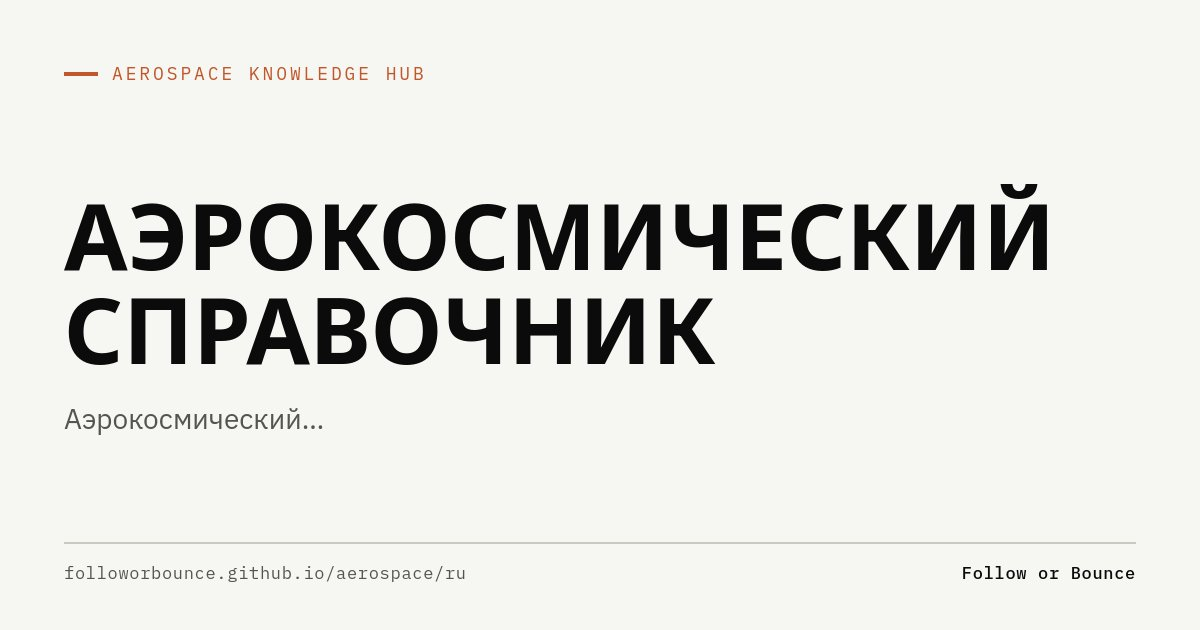
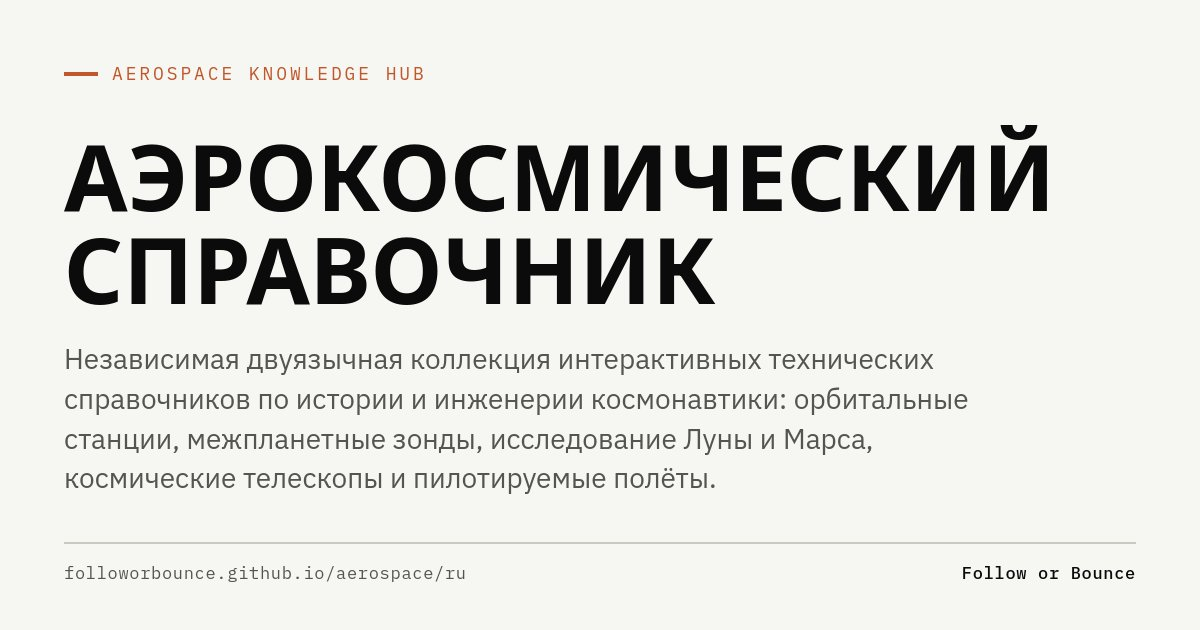
Russian index: a real description instead of the site name

Changed region(s): [[0.0308, 0.181, 0.8942, 0.7238], [0.0617, 0.754, 0.5858, 0.7841]]

diff --git a/ru/index.html b/ru/index.html
@@ -5,13 +5,13 @@
 <meta name="viewport" content="width=device-width, initial-scale=1.0">
 <meta name="yandex-verification" content="6aceeb02b2fcb918" />
 <title>Аэрокосмический справочник</title>
-<meta name="description" content="Аэрокосмический справочник">
+<meta name="description" content="Независимая двуязычная коллекция интерактивных технических справочников по истории и инженерии космонавтики: орбитальные станции, межпланетные зонды, исследование Луны и Марса, космические телескопы и пилотируемые полёты.">
 <link rel="canonical" href="https://followorbounce.github.io/aerospace/ru/">
 <meta name="theme-color" content="#f6f6f2">
 <link rel="icon" href="/aerospace/assets/favicon.svg" type="image/svg+xml">
 <meta property="og:type" content="website">
 <meta property="og:title" content="Аэрокосмический справочник">
-<meta property="og:description" content="Аэрокосмический справочник">
+<meta property="og:description" content="Независимая двуязычная коллекция интерактивных технических справочников по истории и инженерии космонавтики: орбитальные станции, межпланетные зонды, исследование Луны и Марса, космические телескопы и пилотируемые полёты.">
 <meta property="og:url" content="https://followorbounce.github.io/aerospace/ru/">
 <meta property="og:site_name" content="Aerospace Knowledge Hub">
 <meta property="og:locale" content="ru_RU">

diff --git a/_tools/ru_pages.py b/_tools/ru_pages.py
@@ -23,6 +23,8 @@ HERE = os.path.dirname(os.path.abspath(__file__))
 ROOT = os.path.dirname(HERE)
 SITE = 'https://followorbounce.github.io/aerospace/'
 VOID = {'area', 'base', 'br', 'col', 'embed', 'hr', 'img', 'input', 'link', 'meta', 'param', 'source', 'track', 'wbr'}
+INDEX_DESC_RU = ('Независимая двуязычная коллекция интерактивных технических справочников по истории и инженерии космонавтики: '
+                 'орбитальные станции, межпланетные зонды, исследование Луны и Марса, космические телескопы и пилотируемые полёты.')
 HL_START, HL_END = '<!-- hreflang -->', '<!-- /hreflang -->'
 
 
@@ -107,6 +109,8 @@ def russian(src, slug, site, label, slugs):
     lede = re.search(r'<(?:p|div)[^>]*class="[^"]*\blede\b[^"]*"[^>]*\bdata-ru="([^"]*)"', src) or \
         re.search(r'<p[^>]*\bdata-ru="([^"]{80,})"', src)
     desc = clip(plain(html.unescape(lede.group(1)))) if lede else t_ru
+    if not slug:                                   # the index has no hero lede: its English description, in Russian
+        desc = INDEX_DESC_RU
 
     h = re.sub(r'<html lang="[^"]*"', '<html lang="ru" data-edition="ru"', h, count=1)
     h = re.sub(r'<title>.*?</title>', '<title>%s</title>' % html.escape(t_ru, quote=False), h, count=1, flags=re.S)
